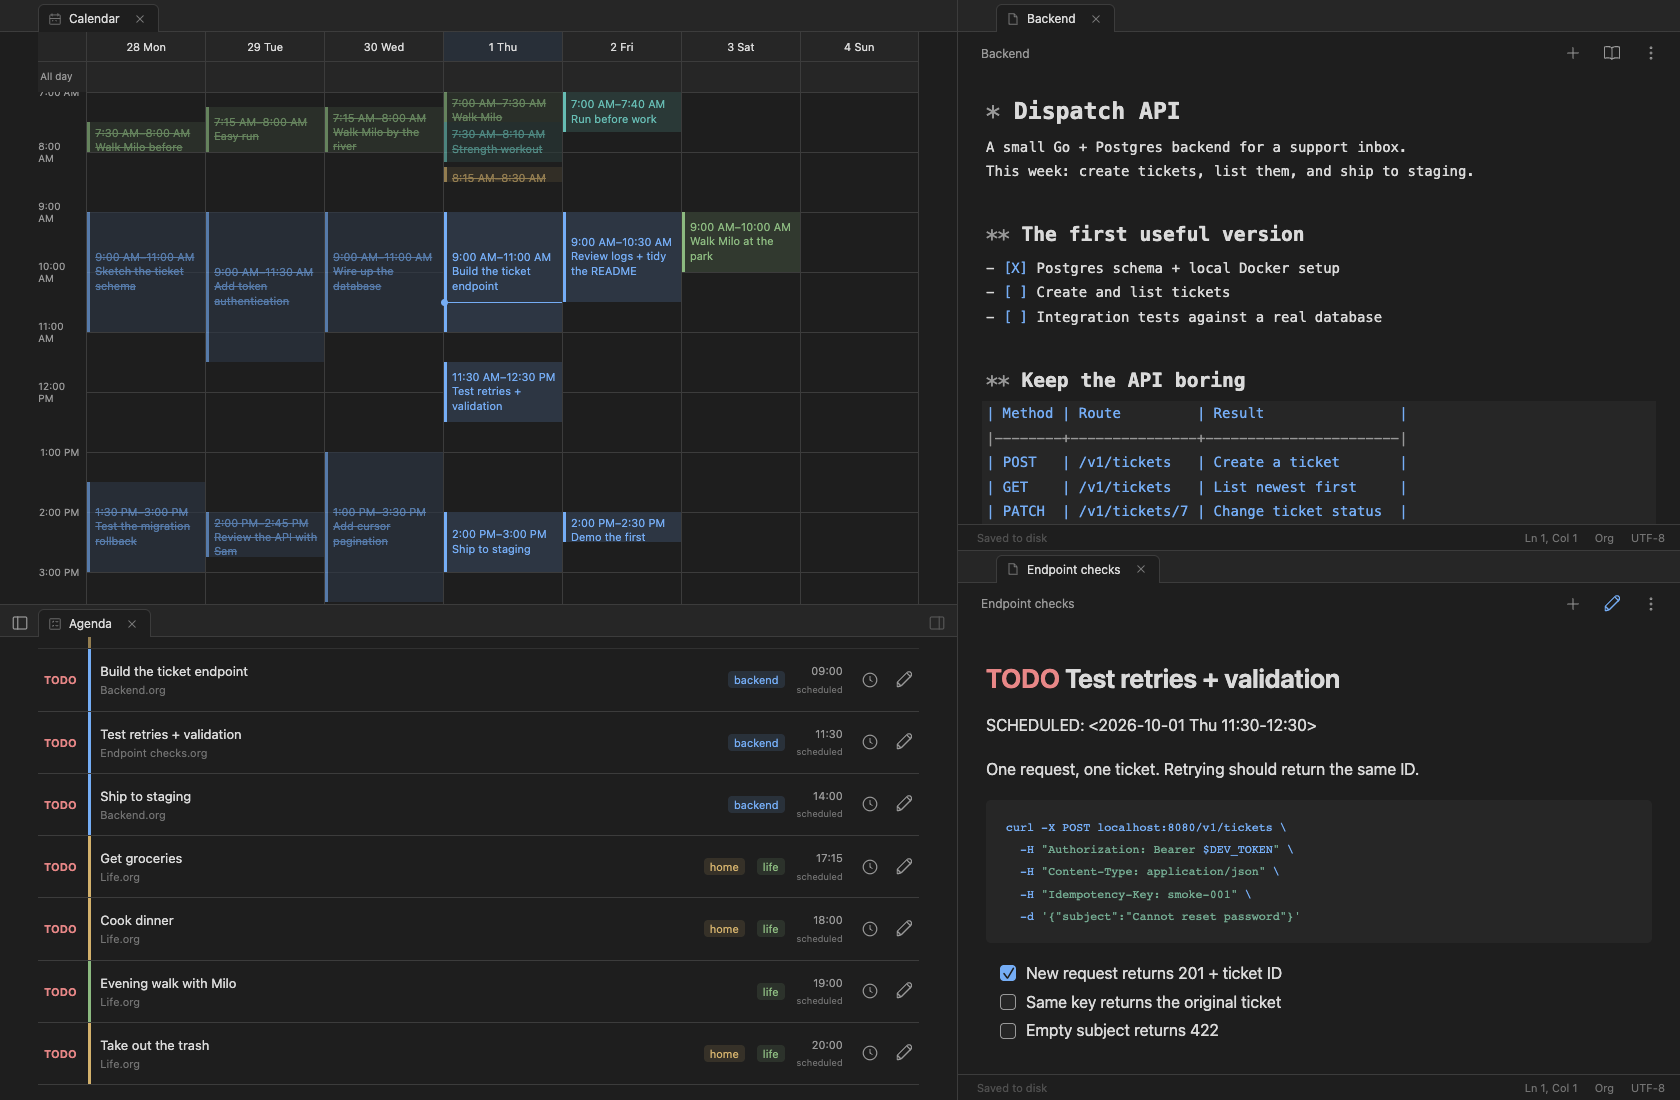
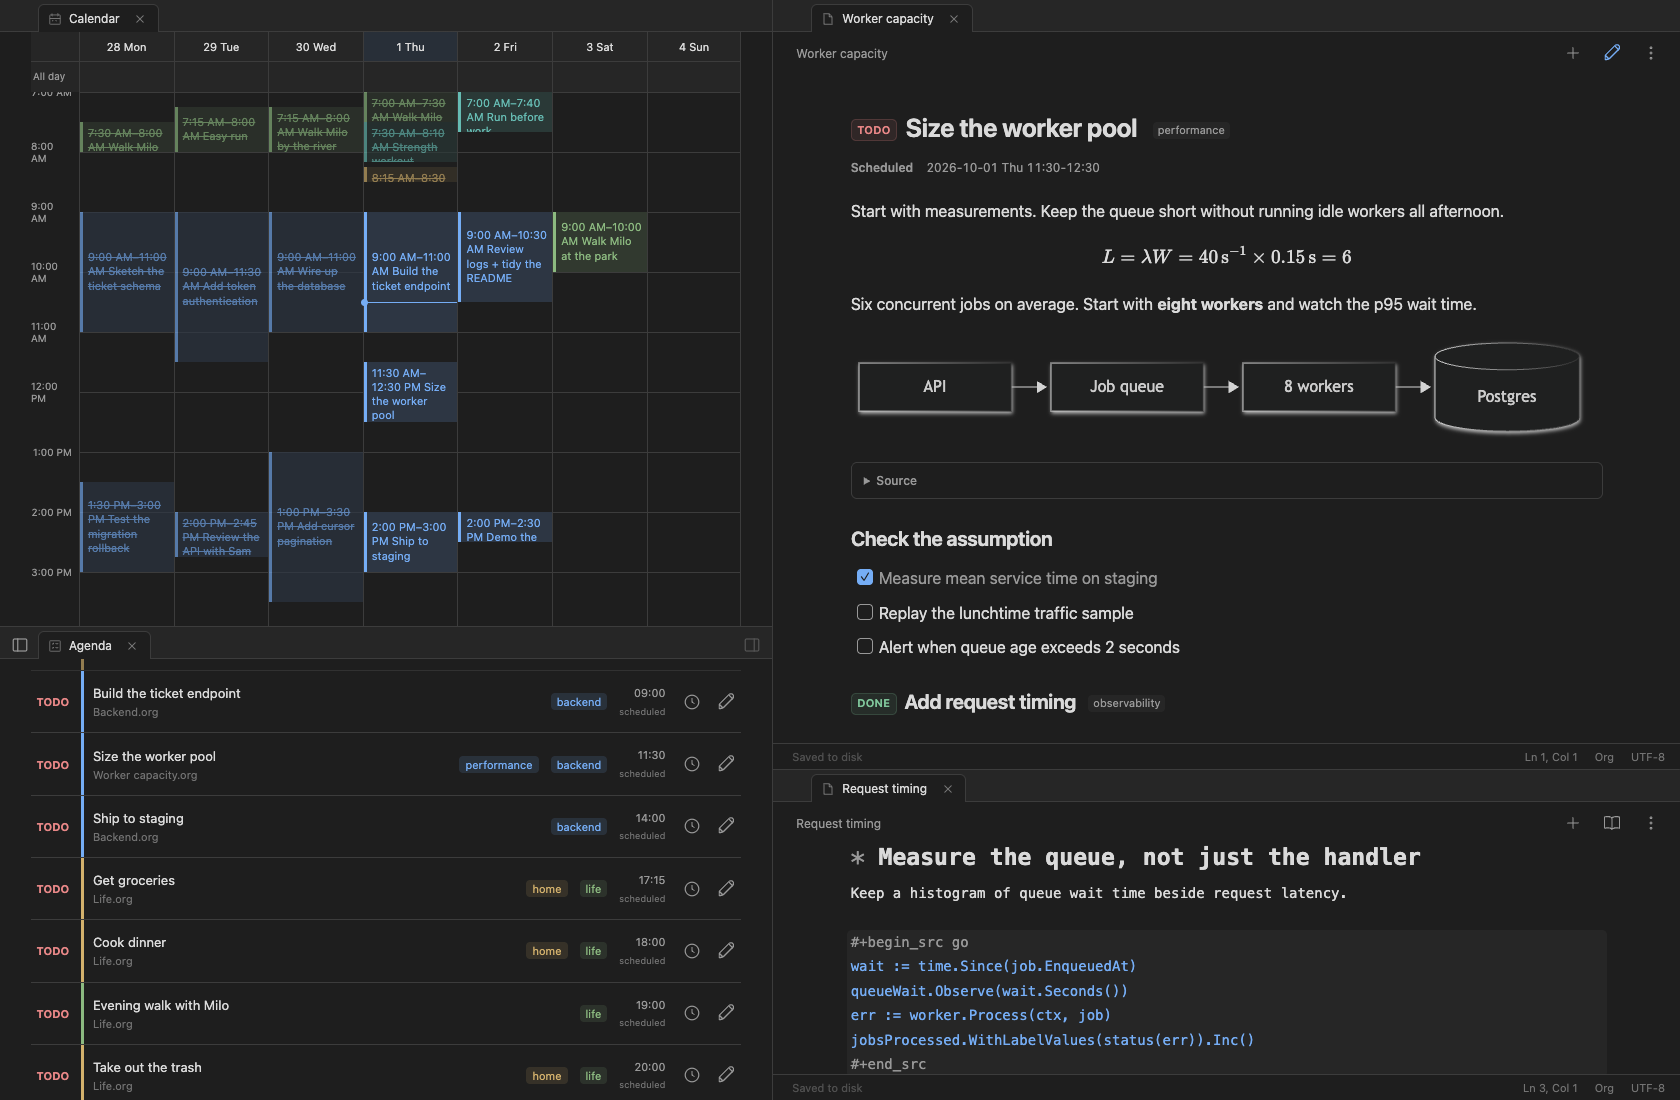
Show Systems notebook in README with matching Org examples

diff --git a/examples/Engineer/README.md b/examples/Engineer/README.md
@@ -5,16 +5,18 @@ Open a copy of this folder in OrbitalNote. No account or imports are needed.
 
 - **Backend.org:** Dispatch, a small Go + Postgres support-ticket API. Design notes,
   a handler sketch, checklists, and a week of scheduled engineering work.
-- **Endpoint checks.org:** a scheduled test task with a rendered curl example and
-  a checklist for response validation and idempotency.
+- **Worker capacity.org:** a scheduled TODO with tags, Little's law in LaTeX,
+  a Mermaid service diagram, and a capacity-check checklist.
+- **Request timing.org:** a short Go instrumentation sketch for queue wait and
+  processed-job metrics.
 - **Life.org:** dog walks, exercise, rent, groceries, cooking, and taking out the trash.
 
 The screenshots use **Thursday, October 1, 2026 at 10:30 AM**. Navigate to that
 week to see the same calendar. The example includes completed morning tasks;
 these are fictional demonstration data.
 
-Desktop layout: week Calendar above a minimal Agenda on the left, with the backend
-source editor above rendered endpoint checks on the right. Mobile: today's Agenda
+Desktop layout (Systems notebook): week Calendar above a minimal Agenda on the
+left, with rendered worker-capacity notes above request-timing source on the right. Mobile: today's Agenda
 from these exact same files.
 The screenshots are local app captures, not a recording of a live Sync session.
 Optional Sync can keep a real workspace shared between desktop and mobile.

diff --git a/README.md b/README.md
@@ -1,4 +1,4 @@
-<p align="center"><img src="docs/assets/workspace.png" alt="OrbitalNote: Calendar and minimal Agenda on the left, backend project source above rendered endpoint checks on the right." width="1200"></p>
+<p align="center"><img src="docs/assets/workspace.png" alt="OrbitalNote Systems notebook: Calendar and minimal Agenda beside rendered TODO tasks, tags, a LaTeX equation, and a Mermaid service diagram, with Go instrumentation source below." width="1200"></p>
 
 # OrbitalNote
 
